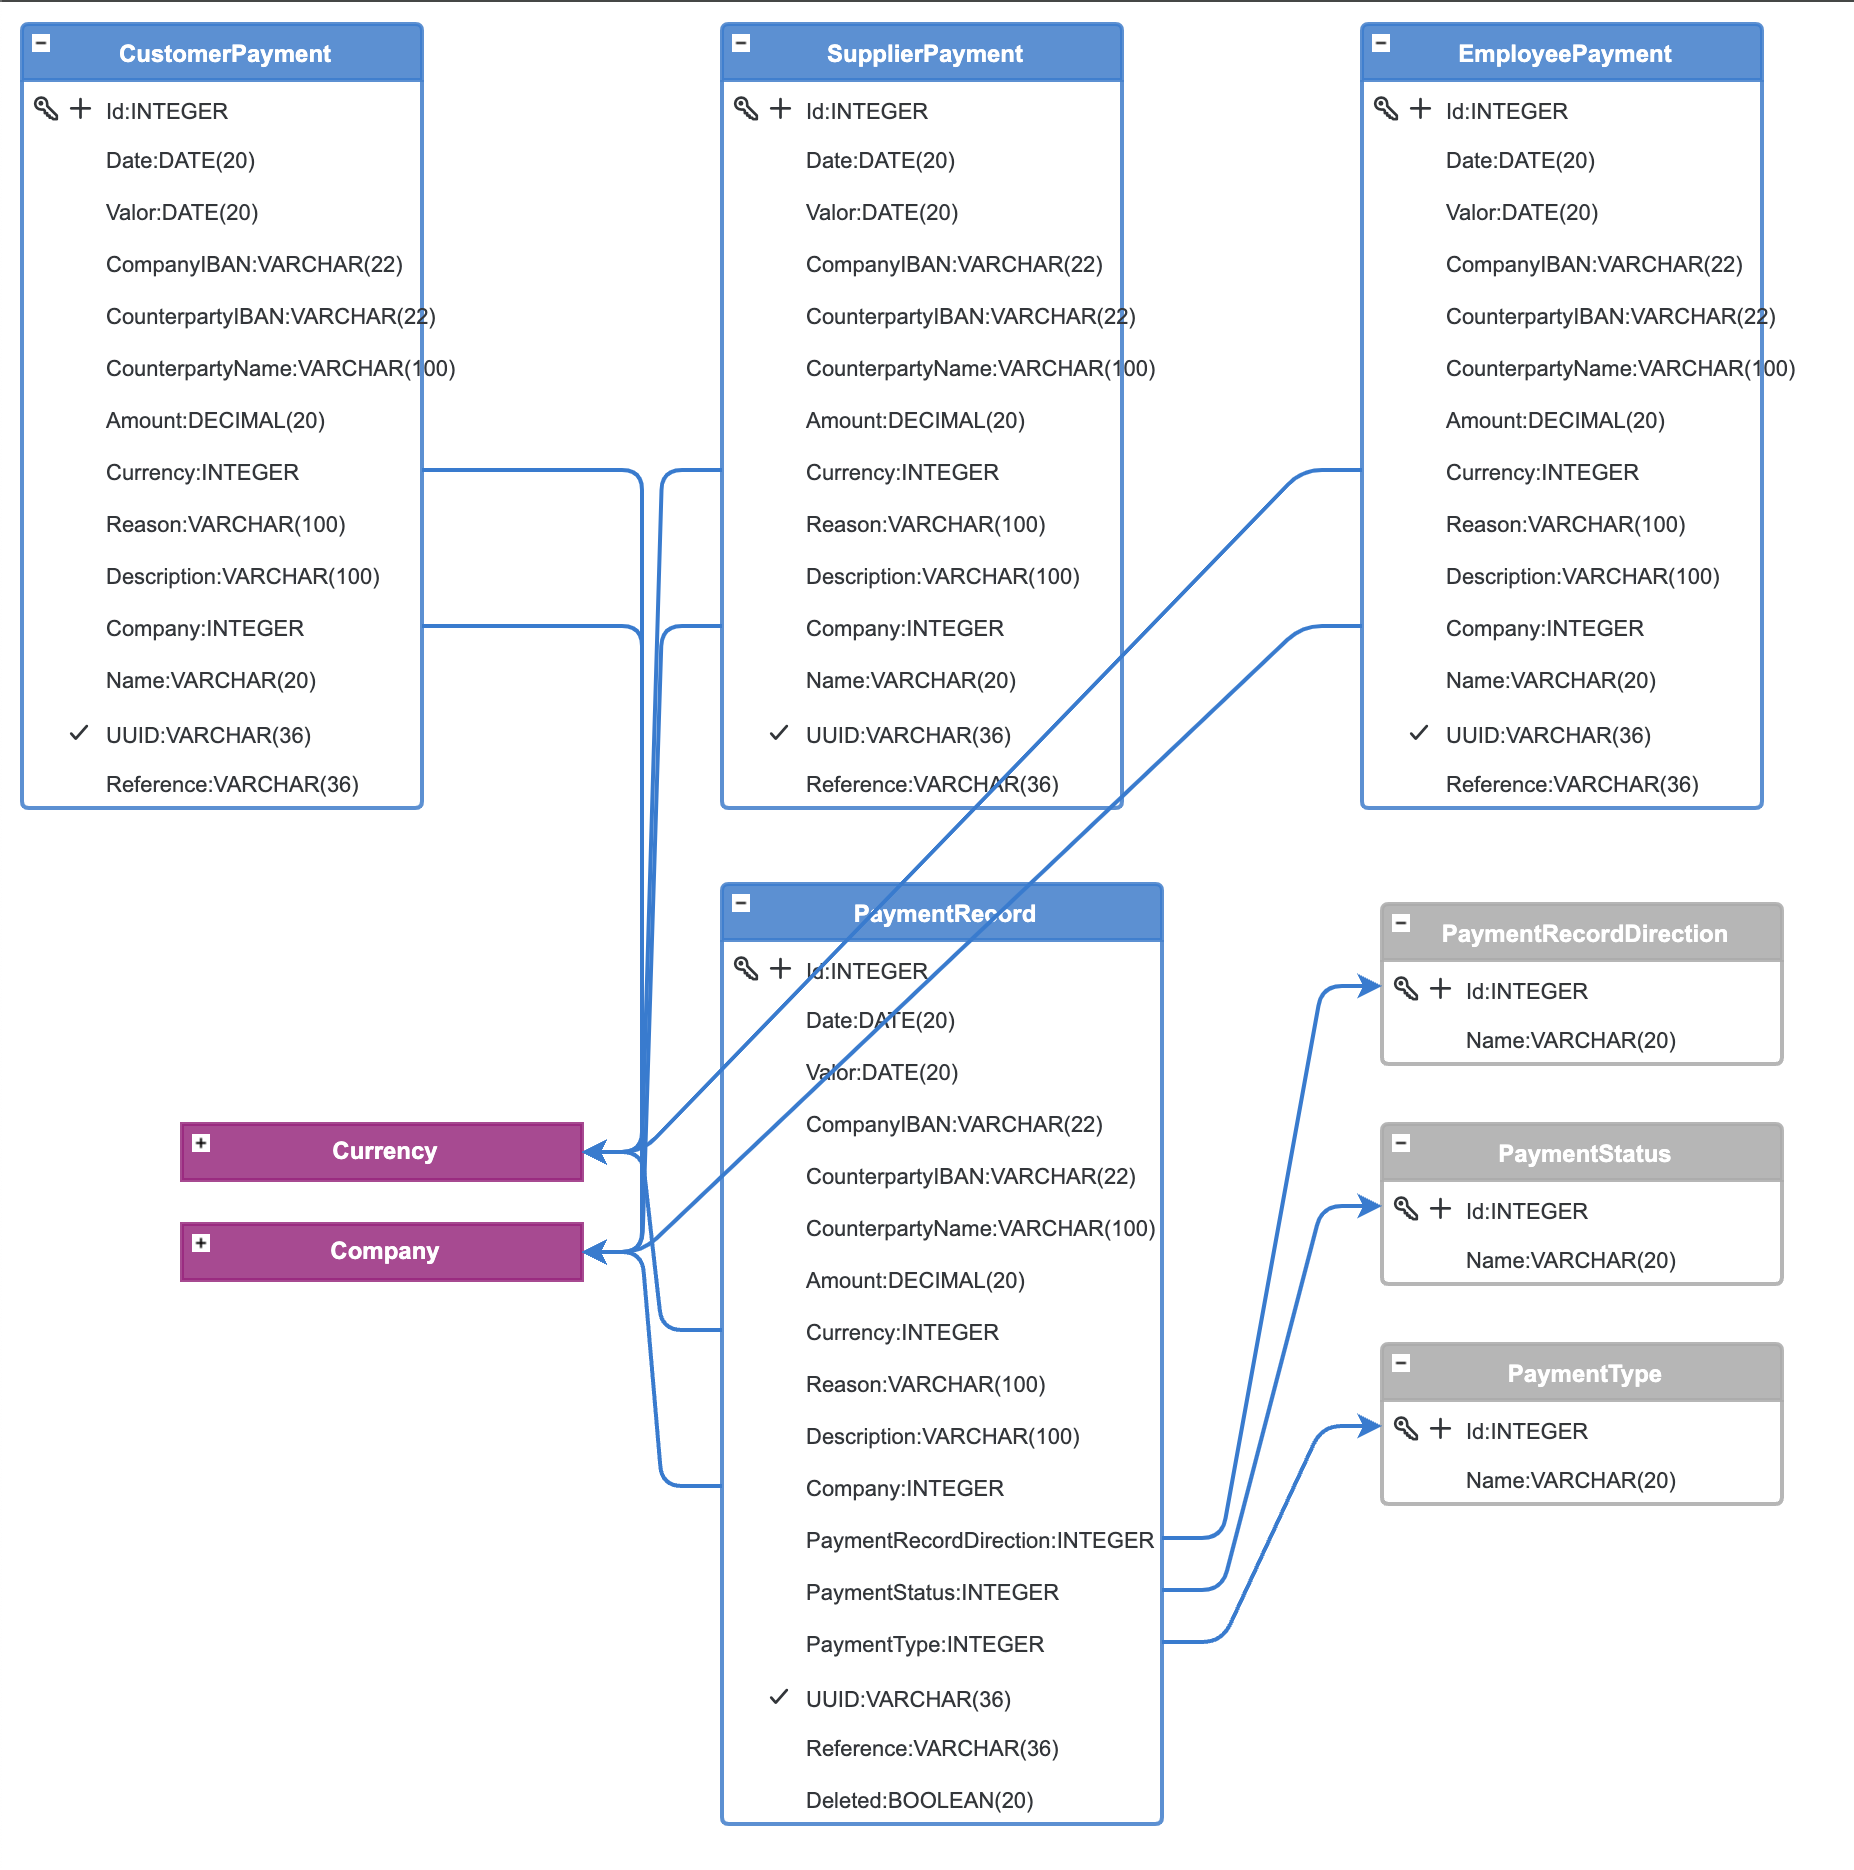
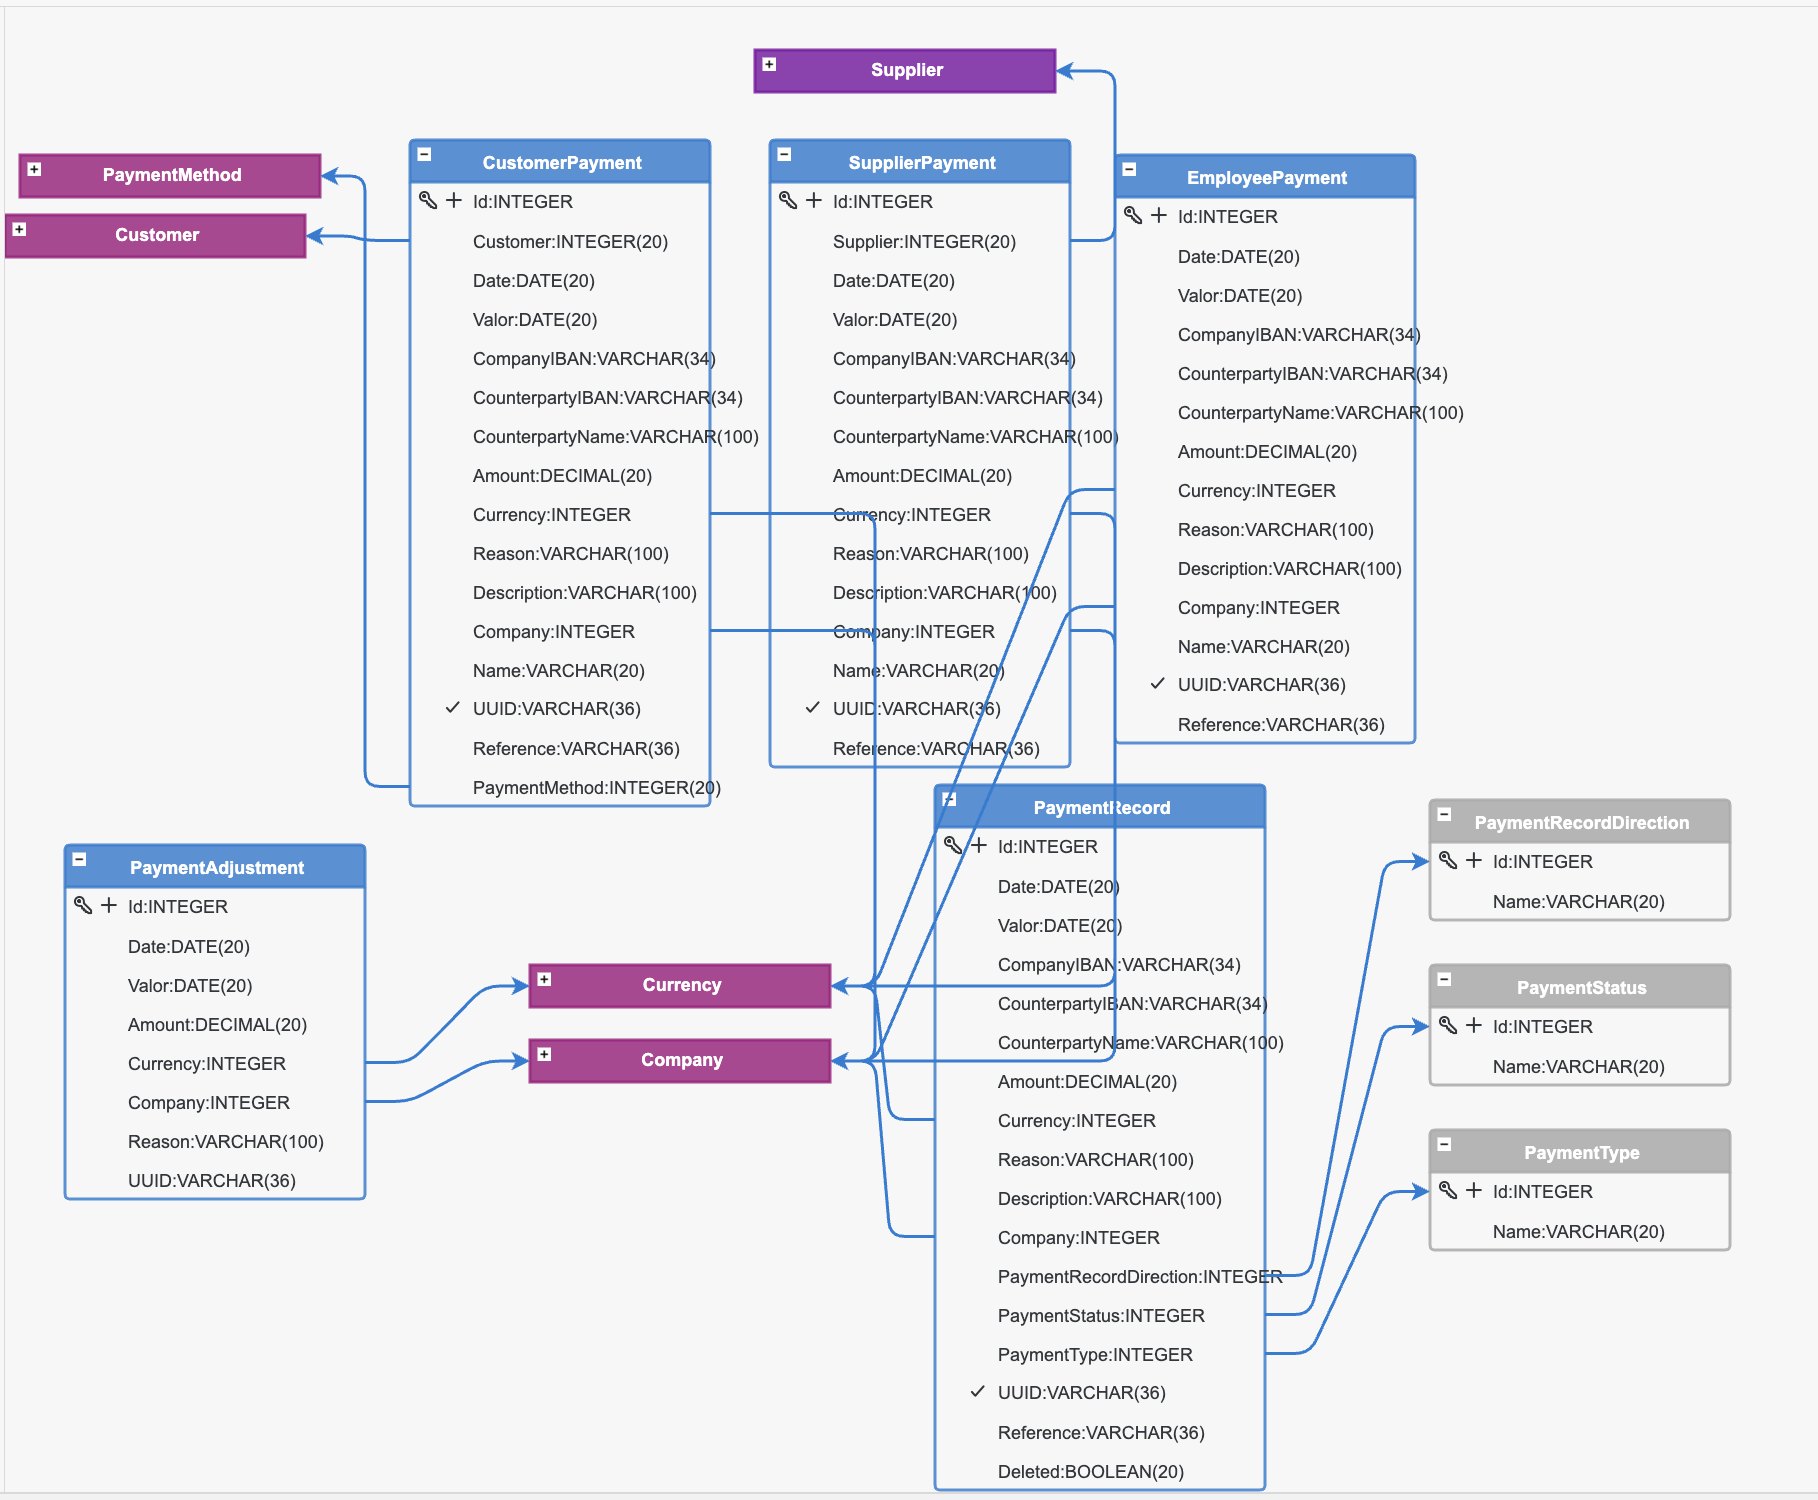
add model with light theme

Changed region(s): [[0.0, 0.0, 0.9857, 1.0], [0.3388, 0.7667, 0.4004, 0.7973]]

diff --git a/README.md b/README.md
@@ -3,8 +3,7 @@
 
 ### Model
 
-<img width="972" alt="image" src="https://github.com/user-attachments/assets/cbcd95c9-4ae5-4c1a-b367-2211ed5f38aa" />
-
+![payments](images/payments-model.png)
 ### Application
 
 #### Launchpad
